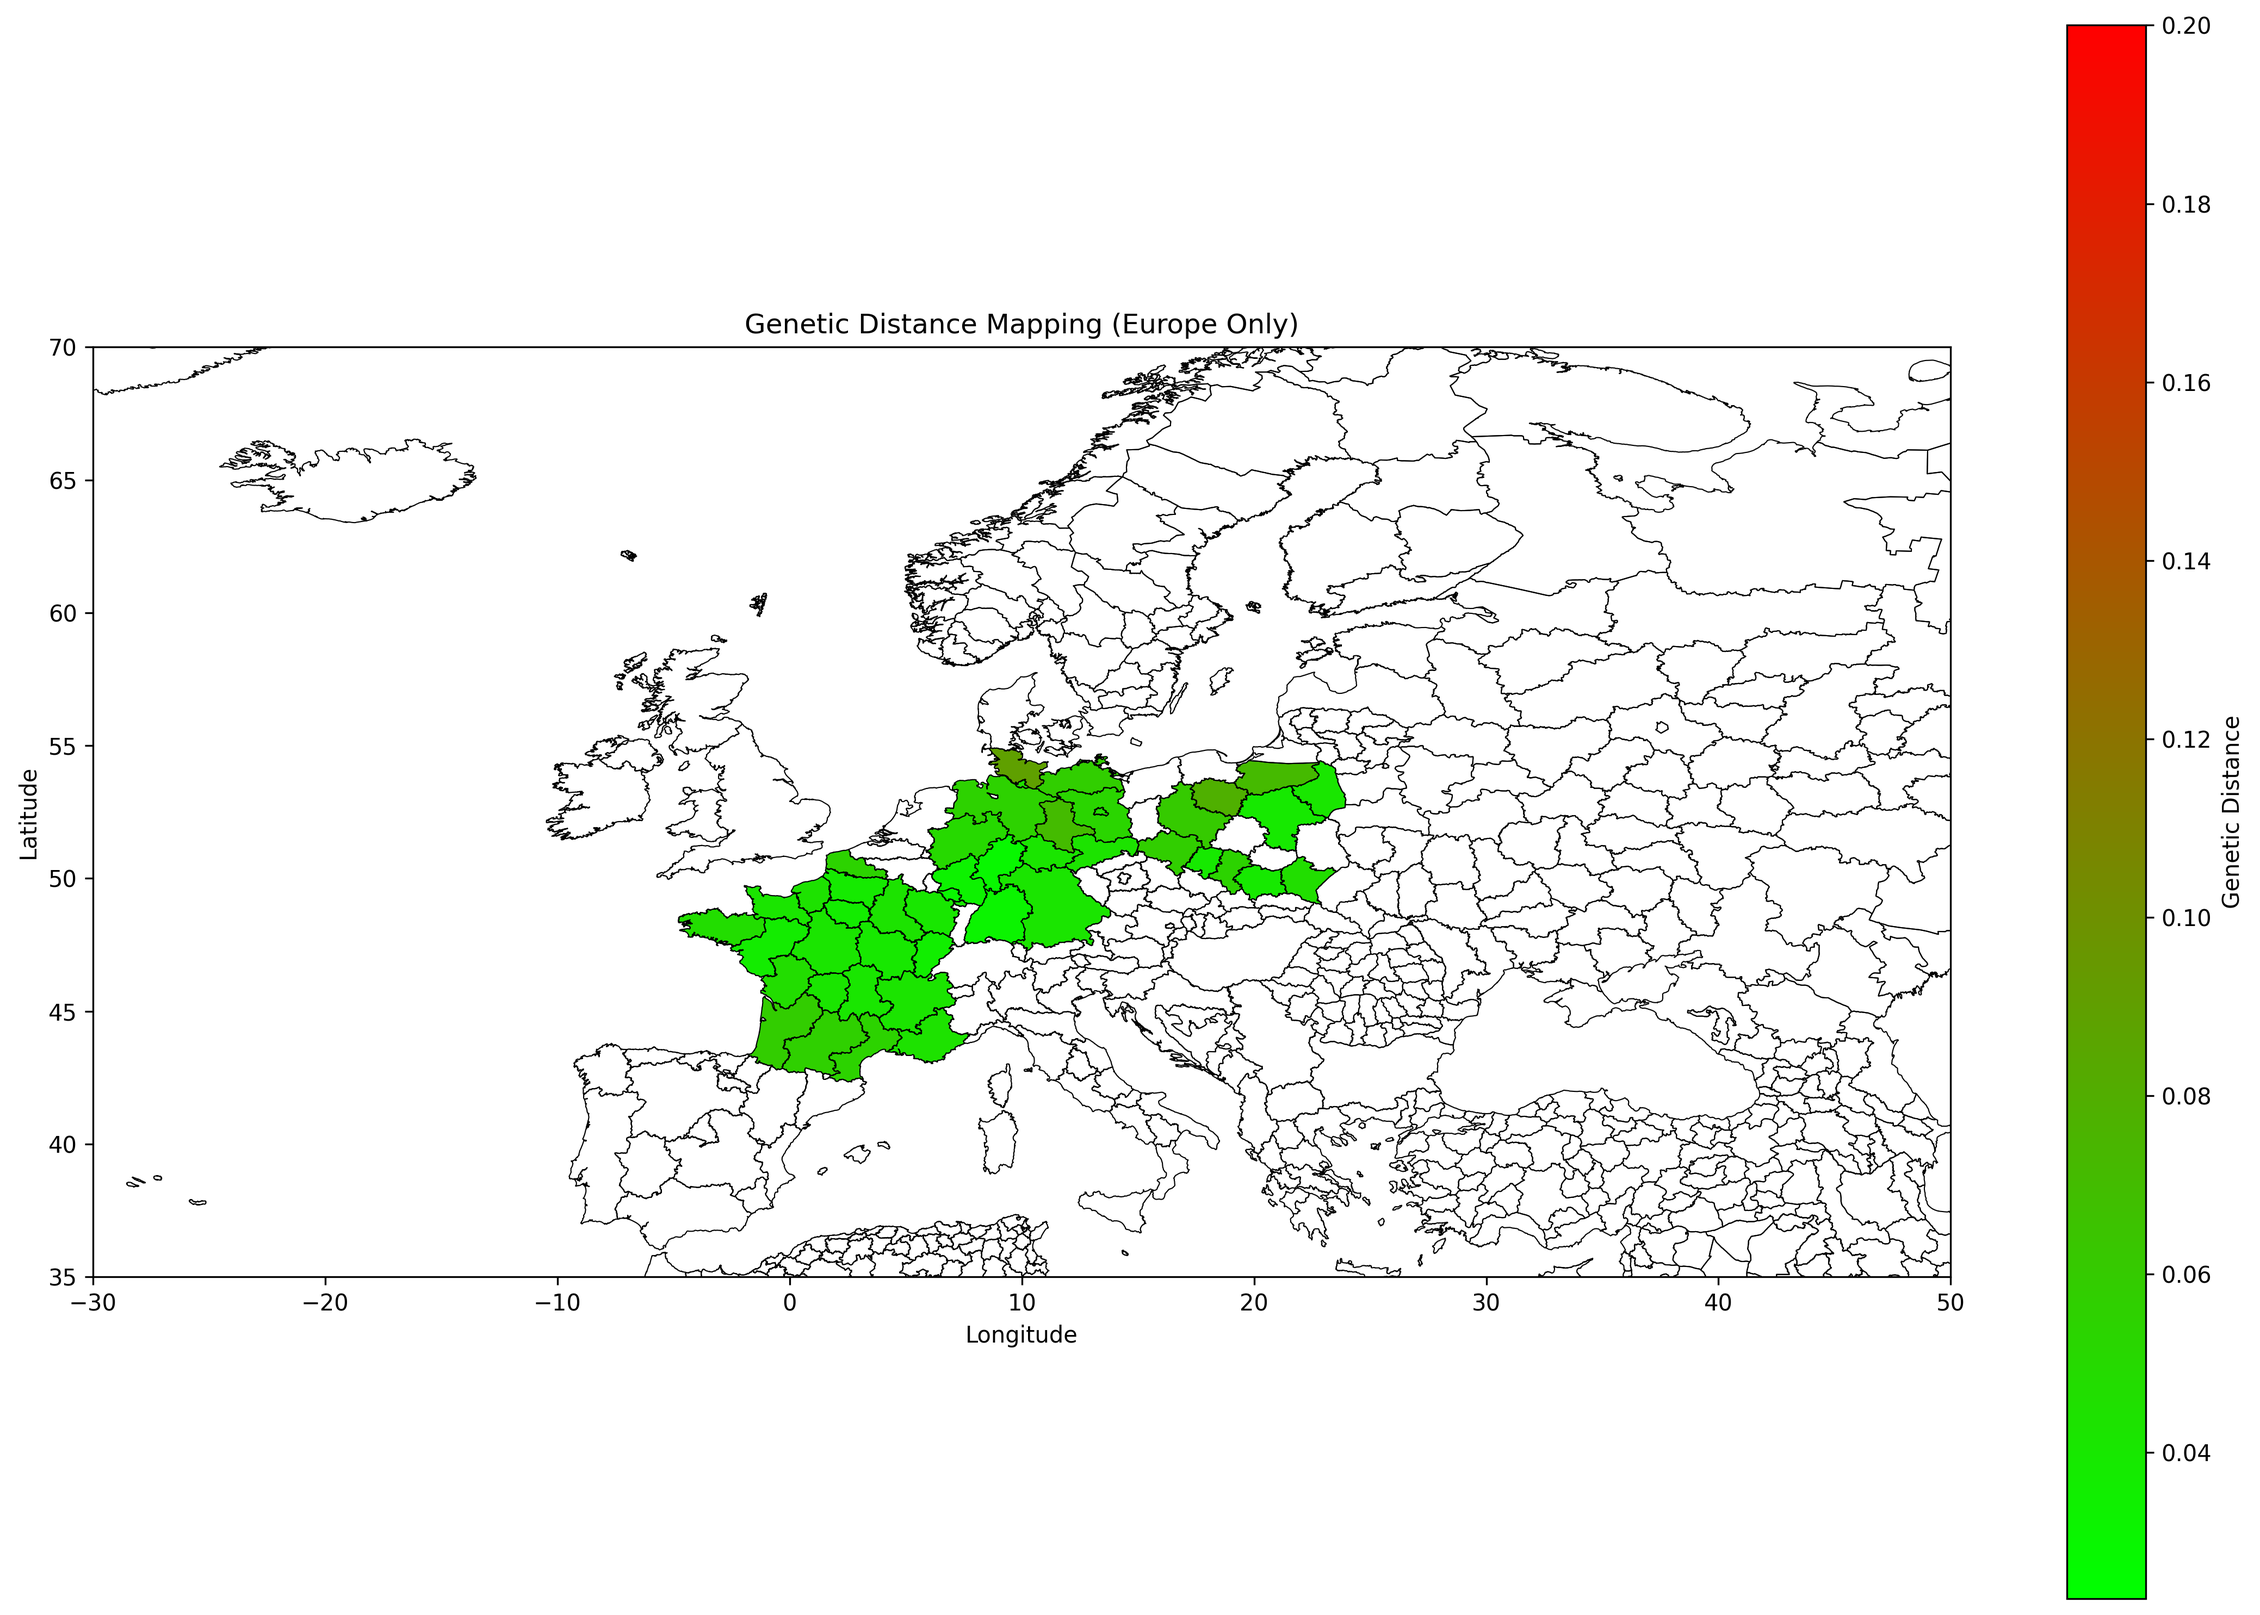
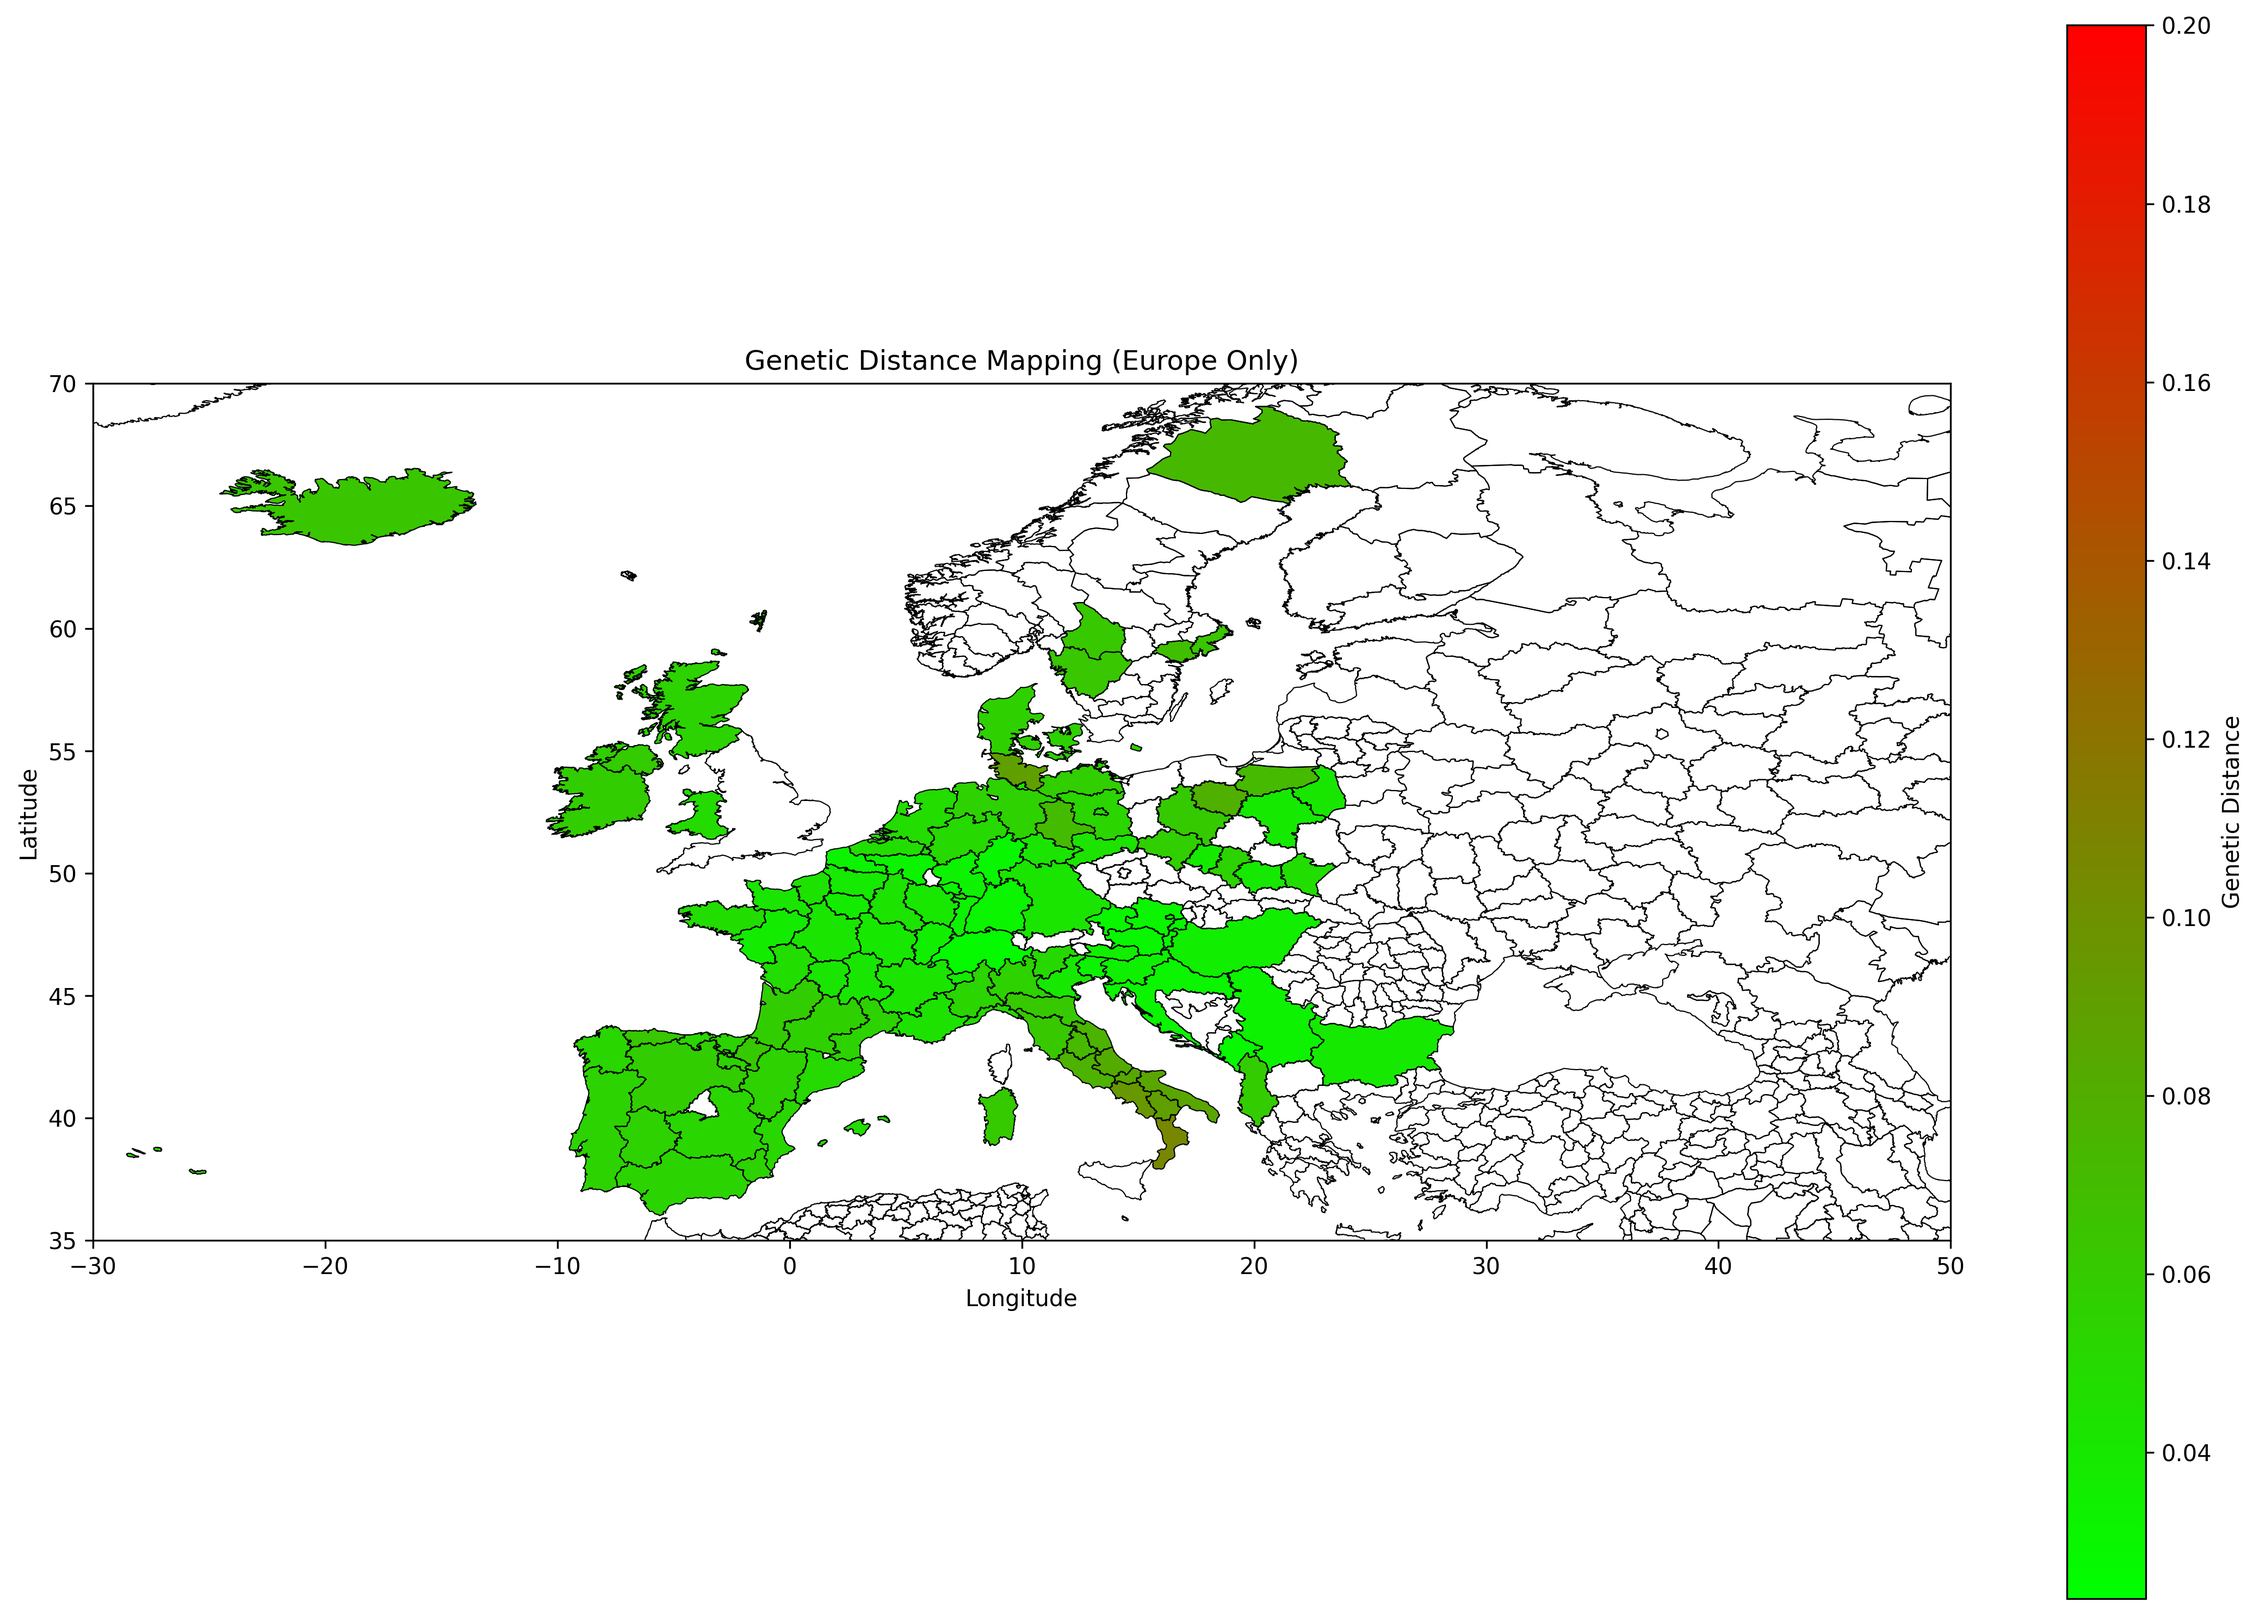
mapping improvements

diff --git a/get_distances_data.py b/get_distances_data.py
@@ -2030,7 +2030,7 @@ mapping = {
     "Polish_Upper_Silesia": "Opolskie",
     "Polish_Warmia-Masuria": "Warminsko-Mazurskie",
     "Polish_Wielkopolska": "Wielkopolskie",
-      "Swiss_German": "Schleswig-Holstein",  # No exact match, used a plausible geographic region
+      "Swiss_German": "Switzerland",  # No exact match, used a plausible geographic region
     "German_Baden-Wurttemberg": "Baden-Wuerttemberg",
     "German_Bavaria": "Bayern",
     "German_Bavaria_Lower_Bavaria": "Bayern",
@@ -2104,7 +2104,6 @@ mapping = {
     "French_Occitan_Provence-Alpes-Cote_d'Azur_Alpes-de-Haute-Provence": "Provence-Alpes-Cote-d'Azur",
     "French_Occitan_Provence-Alpes-Cote_d'Azur_Bouches-du-Rhone": "Provence-Alpes-Cote-d'Azur",
     "French_Occitan_Provence-Alpes-Cote_d'Azur_Bouches-du-Rhone_Marseille": "Provence-Alpes-Cote-d'Azur",
-    "French_Occitan_Provence-Alpes-Cote_d'Azur_o": "Provence-Alpes-Cote-d'Azur",
     "French_Oïl_Bourgogne-Franche-Comte_Cote-d'Or": "Bourgogne",
     "French_Oïl_Bourgogne-Franche-Comte_Doubs": "Franche-Comte",
     "French_Oïl_Bourgogne-Franche-Comte_Haute-Saone": "Franche-Comte",
@@ -2117,8 +2116,6 @@ mapping = {
     "French_Oïl_Grand_Est_Moselle": "Lorraine",
     "French_Oïl_Grand_Est_Vosges": "Lorraine",
     "French_Oïl_Hauts-de-France_Nord": "Nord-Pas-de-Calais",
-    "French_Oïl_Hauts-de-France_Nord_o1_(Flemish_Profile)": "Nord-Pas-de-Calais",
-    "French_Oïl_Hauts-de-France_Nord_o2_(Central_European_Profile)": "Nord-Pas-de-Calais",
     "French_Oïl_Hauts-de-France_Pas-de-Calais": "Nord-Pas-de-Calais",
     "French_Oïl_Hauts-de-France_Somme": "Picardie",
     "French_Oïl_Ile-de-France_Paris": "Ile-de-France",
@@ -2134,6 +2131,110 @@ mapping = {
     "French_Oïl_Pays_de_la_Loire_Vendee": "Pays-de-la-Loire",
     "Alsatian_Bas-Rhin": "Alsace",
     "Alsatian_Haut-Rhin": "Alsace",
+        "Spanish_Andalusia_(Andalusian)": "Andalucía",
+    "Spanish_Aragon_(Aragonese)": "Aragón",
+    "Spanish_Aragon_North_(Aragonese)": "Aragón",
+    "Spanish_Asturias_(Asturian)": "Principado de Asturias",
+    "Spanish_Baleares_(Catalan)": "Illes Balears",
+    "Spanish_Baleares_Ibiza_(Catalan)": "Illes Balears",
+    "Spanish_Baleares_Mallorca_(Catalan)": "Illes Balears",
+    "Spanish_Baleares_Menorca_(Catalan)": "Illes Balears",
+    "Spanish_Biscay_West": "País Vasco/Euskadi",
+    "Spanish_Cantabria_(Cantabrian)": "Cantabria",
+    "Spanish_Castile_and_Leon_(Castilian)": "Castilla y León",
+    "Spanish_Castile_and_Leon_Burgos_North_(Castilian)": "Castilla y León",
+    "Spanish_Castile_and_Leon_Soria_(Castilian)": "Castilla y León",
+    "Spanish_Castilla-La_Mancha_(Castilian)": "Castilla-La Mancha",
+    "Spanish_Catalonia_(Catalan)": "Cataluña/Catalunya",
+    "Spanish_Catalonia_Barcelones_(Catalan)": "Cataluña/Catalunya",
+    "Spanish_Catalonia_Camp_de_Tarragona_(Catalan)": "Cataluña/Catalunya",
+    "Spanish_Catalonia_Central_(Catalan)": "Cataluña/Catalunya",
+    "Spanish_Catalonia_Girona_(Catalan)": "Cataluña/Catalunya",
+    "Spanish_Catalonia_Lleida_(Catalan)": "Cataluña/Catalunya",
+    "Spanish_Catalonia_Penedes_(Catalan)": "Cataluña/Catalunya",
+    "Spanish_Catalonia_Peri-Barcelona_(Catalan)": "Cataluña/Catalunya",
+    "Spanish_Catalonia_Pirineu_(Catalan)": "Cataluña/Catalunya",
+    "Spanish_Catalonia_Terres_de_l'Ebre_(Catalan)": "Cataluña/Catalunya",
+    "Spanish_Extremadura_(Extremaduran)": "Extremadura",
+    "Spanish_Galicia_(Galician)": "Galicia",
+    "Spanish_La_Rioja_(Riojan)": "La Rioja",
+    "Spanish_Murcia_(Murcian)": "Región de Murcia",
+    "Spanish_Navarre_(Navarrese)": "Comunidad Foral de Navarra",
+    "Spanish_Valencia_(Valencian)": "Comunitat Valenciana",
+    "Spanish_Valencia_Alicante_(Valencian)": "Comunitat Valenciana",
+    "Spanish_Valencia_Castellon_(Valencian)": "Comunitat Valenciana",
+        "Italian_Abruzzo_(Abruzzese)": "Abruzzi",
+    "Italian_Alto-Adige_(Bavarian)": "Trentino-alto Adige",
+    "Italian_Aosta_Valley_(Valdotain)": "Valle D'aosta",
+    "Italian_Apulia_(Apulian)": "Puglia",
+    "Italian_Basilicata_(Lucanian)": "Basilicata",
+    "Italian_Calabria_(Calabrian)": "Calabria",
+    "Italian_Calabria_Reggio_Calabria_(Calabrian)": "Calabria",
+    "Italian_Campania_(Campanian)": "Campania",
+    "Italian_Campania_Benevento_(Campanian)": "Campania",
+    "Italian_Campania_Caserta_(Campanian)": "Campania",
+    "Italian_Campania_Naples_(Campanian)": "Campania",
+    "Italian_Campania_Salerno_(Campanian)": "Campania",
+    "Italian_Carloforte_(Ligurian)": "Sardegna",
+    "Italian_Emilia_(Emilian)": "Emilia-romagna",
+    "Italian_Friuli_(Friulian)": "Friuli-venezia Giulia",
+    "Italian_Friuli_Sappada_(Bavarian)": "Friuli-venezia Giulia",
+    "Italian_Friuli_Sauris_(Bavarian)": "Friuli-venezia Giulia",
+    "Italian_Friuli_Timau_(Bavarian)": "Friuli-venezia Giulia",
+    "Italian_Lazio_(Lazian)": "Lazio",
+    "Italian_Liguria_(Ligurian)": "Liguria",
+    "Italian_Lombardy_(Lombard)": "Lombardia",
+    "Italian_Lombardy_Bergamo_(Lombard)": "Lombardia",
+    "Italian_Lombardy_Brescia_(Lombard)": "Lombardia",
+    "Italian_Marche_(Marchigiano)": "Marche",
+    "Italian_Marche_Ascoli_Piceno_(Abruzzese)": "Marche",
+    "Italian_Molise_(Molisan)": "Molise",
+    "Italian_Piedmont_(Piedmontese)": "Piemonte",
+    "Italian_Piedmont_Cuneo_(Occitan_or_Piedmontese)": "Piemonte",
+    "Italian_Piedmont_Domodossola_(Lombard)": "Piemonte",
+    "Italian_Piedmont_Val_Borbera_(Ligurian)": "Piemonte",
+    "Italian_Piedmont_Verbania_(Lombard)": "Piemonte",
+    "Italian_Romagna_(Romagnol)": "Emilia-romagna",
+    "Italian_Trentino": "Trentino-alto Adige",
+    "Italian_Trentino_(Trentino_or_Ladin)": "Trentino-alto Adige",
+    "Italian_Trentino_(Trentino_or_Venetian)": "Trentino-alto Adige",
+    "Italian_Tuscany_(Tuscan)": "Toscana",
+    "Italian_Tuscany_Lunigiana_(Emilian)": "Toscana",
+    "Italian_Umbria_(Umbrian)": "Umbria",
+    "Italian_Veneto_(Venetian)": "Veneto",
+    "Italian_Veneto_Lessinia_(Cimbrian)": "Veneto",
+     "Swedish": "Stockholms Laen",  # General label for Swedish, using the capital region as a common point
+    "Swedish_East_Svealand": "Soedermanlands Laen",  # Representing the eastern part of the Svealand region
+    "Swedish_Gotaland": "Vaestra Goetalands Laen",  # Götaland covers a large part of southern Sweden, represented by its largest county
+    "Swedish_Norrland": "Norrbottens Laen",  # Norrland covers the northern part of Sweden, represented by its northernmost county
+    "Swedish_West_Svealand": "Vaermlands Laen",  # Representing the western part of the Svealand region
+        "Austrian": "Wien",  # General designation for Austrian, using Wien as a central point
+    "Austrian_Burgenland": "Burgenland",
+    "Austrian_Carinthia": "Karnten",  # Carinthia in English translates to Kärnten in German
+    "Austrian_Lower_Austria": "Niederosterreich",  # Lower Austria
+    "Austrian_Styria": "Steiermark",  # Styria in English
+    "Austrian_Upper_Austria": "Oberosterreich",  # Upper Austria
+    "Portuguese": "Portugal",
+    "Slovene": "Slovenia",
+    "Croat": "Croatia",
+    "Bulgarian": "Bulgaria",
+    "Icelandic": "Iceland",
+    "Scottish": "Scotland",
+    "Welsh": "Wales",
+    "Irish_Ulster": "Northern Ireland",
+    "English": "English",
+    "Belgian": "Region wallonne",
+    "Belgian_(Flemish_Profile)": "Vlaams Gewest",
+    "Dutch": "Netherlands",
+    "Danish": "Denmark",
+    "Hungarian": "Hungary",
+    "Irish": "Ireland",
+    "Serb": "Serbia",
+    "Albanian": "Albania",
+    "Montenegrin":"Montenegro",
+    "Macedonian_North_Macedonia": "North Macedonia",
+    "Latvian": "Latvia",
+    "Estonian": "Estonia",
 }
 
 # Iterate through the original array

diff --git a/genetic_distance_plot.py b/genetic_distance_plot.py
@@ -24,7 +24,7 @@ world['genetic_distance'] = world['name1'].map(dict(zip(genetic_data['Region'], 
 # Print the first few entries of genetic_distance
 # print('All entries of names:\n', world['name1'].unique().tolist())
 # Filter for Poland
-country = 'France'
+country = 'Republic of North Macedonia'
 regions = world[world['name0'] == country]
 region_names = regions['name1'].unique().tolist()
 print('All entries of names for' + country + '\n', region_names)
